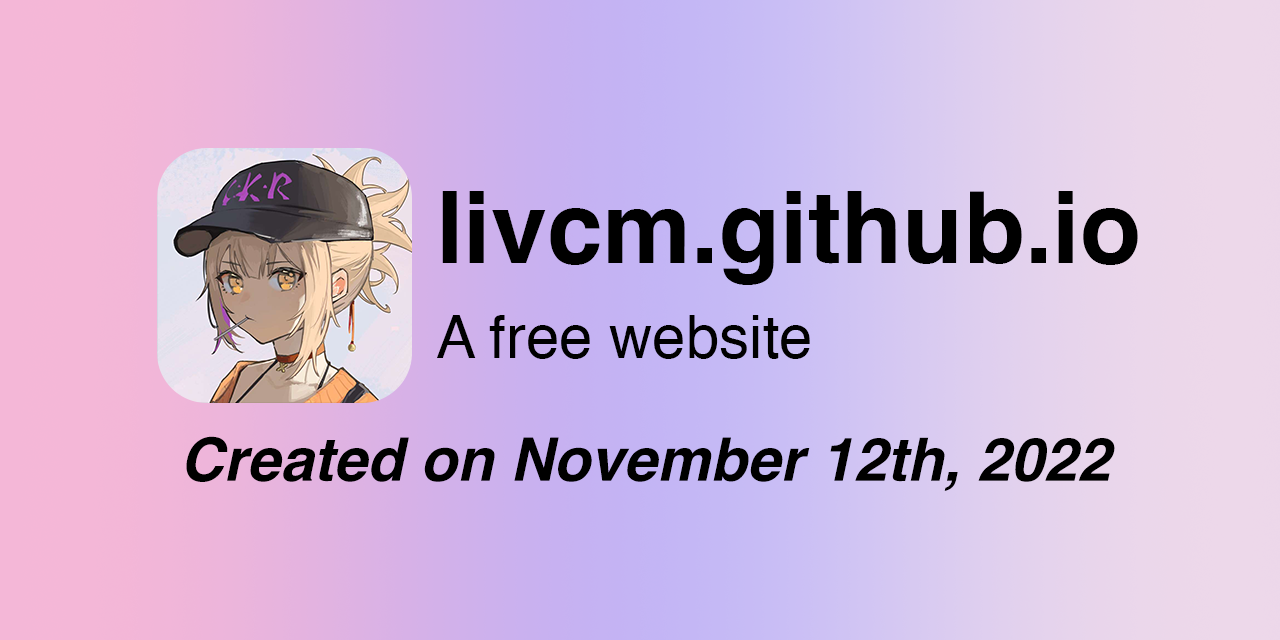
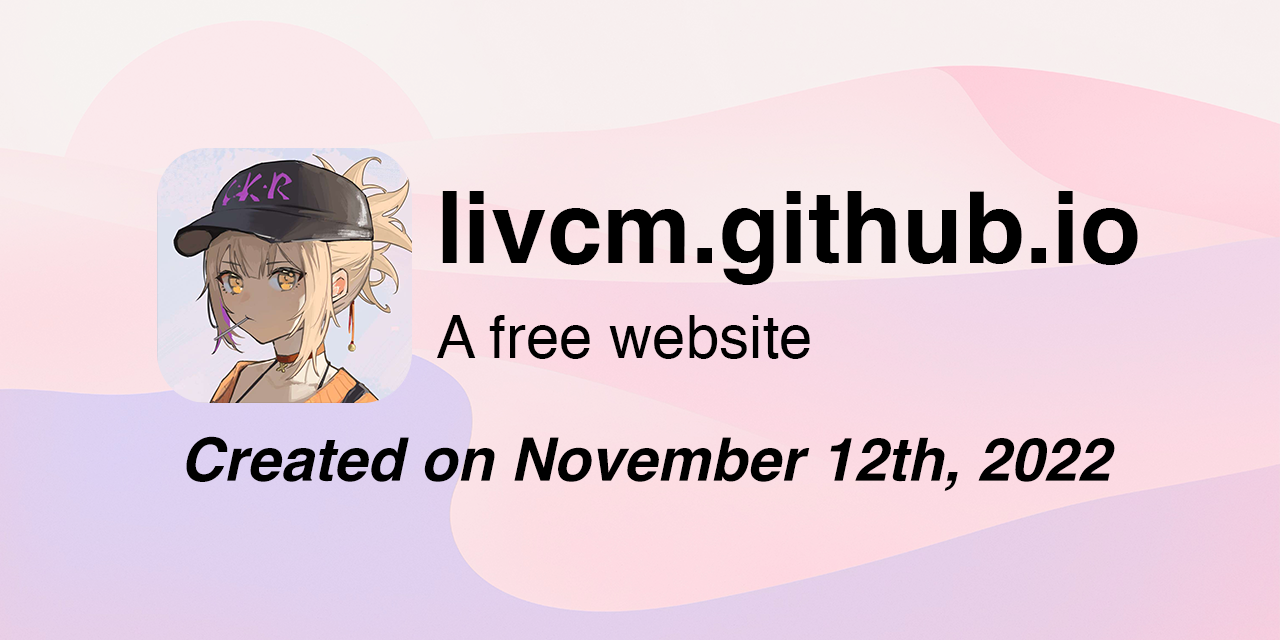
Update social preview and simplify post metadata

diff --git a/_posts/2026-10-04-markdown-syntax-guide.md b/_posts/2026-10-04-markdown-syntax-guide.md
@@ -1,0 +1,301 @@
+---
+title: "Markdown 语法入门：用纯文本写出清晰的文章"
+categories: [技术笔记]
+tags: [Markdown, 写作]
+date: 2026-10-04 00:00:00 +0800
+permalink: /2026/10/04/markdown-syntax-guide.html
+---
+
+写笔记、整理文档或发布博客时，我们经常需要标题、列表、链接和代码块。Markdown 用少量符号表达这些结构，让你在纯文本里完成排版：源文件容易阅读，渲染后也能呈现清晰的层次。
+
+这篇文章从最常用的语法讲起。你可以把示例复制到 Markdown 编辑器里，对照预览查看效果。Markdown 文件通常使用 `.md` 扩展名。
+
+## 1. 标题：用井号划分层次
+
+在一行开头写上 `#`，再加一个空格，就能创建标题。井号的数量对应标题级别，最多六级。
+
+```markdown
+# 一级标题
+## 二级标题
+### 三级标题
+#### 四级标题
+##### 五级标题
+###### 六级标题
+```
+
+一篇文档通常用一级标题表示主题，二级标题划分章节，三级标题细分内容。不要仅仅为了让字变小而跳过层级，标题首先表达的是文章结构。
+
+如果博客模板已经把文章标题显示为一级标题，正文从二级标题开始即可，这篇文章就是这样写的。
+
+## 2. 段落与换行：空一行很重要
+
+两个段落之间留一个空行：
+
+```markdown
+这是第一段，可以包含多个句子。
+
+这是第二段。
+```
+
+只按一次回车，通常仍然属于同一个段落，不一定产生可见的换行。有些平台会改变这一行为，因此要以实际预览为准。
+
+如果需要在同一段落中强制换行，可以在行末添加两个空格，再按回车。不过行末空格不容易察觉，也可能被编辑器自动清除；普通文章优先使用段落分隔，维护起来更方便。
+
+## 3. 强调：粗体与斜体
+
+用一对星号包围文字表示斜体，用两对星号表示粗体：
+
+```markdown
+这是 *斜体*。
+这是 **粗体**。
+这是 ***粗斜体***。
+```
+
+渲染效果：
+
+- 这是 *斜体*。
+- 这是 **粗体**。
+- 这是 ***粗斜体***。
+
+粗体适合标出关键概念或操作提示。如果整段文字都加粗，读者反而难以找到重点。
+
+## 4. 列表：整理要点和操作步骤
+
+### 无序列表
+
+在每项前面写 `-` 和一个空格：
+
+```markdown
+- 阅读文档
+- 整理笔记
+- 完成练习
+```
+
+`*` 和 `+` 也可以作为无序列表标记，同一份文档里保持一种写法即可。
+
+### 有序列表
+
+有先后顺序的内容，用数字、英文句点和空格表示：
+
+```markdown
+1. 新建一个 Markdown 文件。
+2. 写入标题和正文。
+3. 打开预览，检查效果。
+```
+
+### 嵌套列表
+
+将子列表缩进到父项的内容区域内。对于下面这样的短标记，使用四个空格很方便：
+
+```markdown
+- 写作计划
+    - 确定主题
+    - 收集资料
+- 发布准备
+    - 检查链接
+    - 校对文字
+```
+
+列表前后留空行，能够减少不同渲染器对结构的误判。
+
+## 5. 引用：突出一段文字
+
+在行首添加 `>` 和一个空格：
+
+```markdown
+> 把复杂的事情写清楚，往往需要先想清楚。
+>
+> 这是引用中的第二段。
+```
+
+渲染效果：
+
+> 把复杂的事情写清楚，往往需要先想清楚。
+>
+> 这是引用中的第二段。
+
+引用适合摘录他人的话，也可以用于补充说明。引用外部内容时，记得标明出处。
+
+## 6. 链接与图片：方括号加圆括号
+
+### 链接
+
+链接的基本格式是 `[显示文字](目标地址)`：
+
+```markdown
+[访问文章列表](/posts.html)
+[发送邮件](mailto:hello@example.com)
+```
+
+第一条示例会显示为 [访问文章列表](/posts.html)。描述性文字能够告诉读者链接的用途，比单独写“点这里”更清楚。
+
+以 `/` 开头的地址从网站根目录解析，相对路径则取决于当前文档或页面所在的位置。博客发布后的位置可能与源文件目录不同，发布前应检查链接。
+
+### 图片
+
+图片比链接多一个开头的感叹号：
+
+```markdown
+![傍晚的天空，云层被夕阳染成粉色](./images/sunset.jpg)
+```
+
+方括号里的内容是替代文本，用来描述图片。图片无法加载时，或者读者使用屏幕阅读器时，这段文字仍然能够传达信息。
+
+示例中的图片路径仅用于说明写法，使用时需要换成实际存在的文件或图片地址。
+
+## 7. 代码：保留符号和缩进
+
+### 行内代码
+
+用一对反引号包围命令、文件名或代码片段：
+
+```markdown
+运行 `npm install` 安装依赖。
+配置文件名是 `config.json`。
+```
+
+渲染后会显示为：运行 `npm install` 安装依赖。
+
+如果代码本身包含反引号，可以用两个反引号作为外层边界：
+
+```markdown
+用 `` `内容` `` 表示行内代码。
+```
+
+### 代码块
+
+多行代码可以用三个反引号围起来，在开头注明语言：
+
+````markdown
+```python
+def greet(name):
+    print(f"你好，{name}！")
+
+greet("Markdown")
+```
+````
+
+渲染效果：
+
+```python
+def greet(name):
+    print(f"你好，{name}！")
+
+greet("Markdown")
+```
+
+语言名称用于提示语法高亮，具体颜色和支持的语言取决于平台。代码块里的缩进会被保留，特别适合展示程序、命令和配置文件。
+
+如果要展示包含三个反引号的 Markdown 示例，外层可以使用四个反引号，上面的示例就是这样组织的。
+
+## 8. 分隔线与转义
+
+### 分隔线
+
+单独一行写三个或更多连字符，可以生成分隔线。前后留空行，避免它被解释为其他结构：
+
+```markdown
+上一部分的内容。
+
+---
+
+下一部分的内容。
+```
+
+分隔线适合区分内容片段。如果文章已有明确的章节标题，通常不需要频繁添加。
+
+### 转义字符
+
+如果想显示符号本身，可以在部分标点符号前加反斜杠，阻止它们被解释为 Markdown 标记：
+
+```markdown
+\*这句话不会变成斜体\*
+\# 这不是标题
+```
+
+渲染效果：
+
+\*这句话不会变成斜体\*
+
+\# 这不是标题
+
+对于整段语法示例，使用代码块比逐个转义更省事。
+
+## 9. 常见扩展：表格、删除线与任务列表
+
+Markdown 存在不同的语法变体。表格、删除线和任务列表在许多平台上可用，但并非所有渲染器都支持，使用时应查看目标平台的预览。
+
+### 表格
+
+用竖线分隔列，在表头下方添加分隔行：
+
+```markdown
+| 语法 | 用途 | 示例 |
+| --- | --- | --- |
+| 标题 | 划分章节 | `## 小节` |
+| 粗体 | 强调重点 | `**重点**` |
+| 行内代码 | 展示代码片段 | 使用反引号 |
+```
+
+渲染效果：
+
+| 语法 | 用途 | 示例 |
+| --- | --- | --- |
+| 标题 | 划分章节 | `## 小节` |
+| 粗体 | 强调重点 | `**重点**` |
+| 行内代码 | 展示代码片段 | 使用反引号 |
+
+在分隔行中加冒号可以指定对齐方式：`:---` 左对齐，`:---:` 居中，`---:` 右对齐。表格适合短内容对照，长段落放进表格后容易变得难读。
+
+### 删除线
+
+用两对波浪号包围文字：
+
+```markdown
+~~这是一条已经取消的安排。~~
+```
+
+支持这一扩展的平台会显示为：~~这是一条已经取消的安排。~~
+
+### 任务列表
+
+在无序列表标记后添加 `[ ]` 或 `[x]`，分别表示未完成和已完成：
+
+```markdown
+- [x] 确定文章主题
+- [x] 完成初稿
+- [ ] 校对并发布
+```
+
+支持任务列表的平台通常会把它们显示为复选框，但是否可以点击、点击后是否保存状态，取决于平台的实现。
+
+## 10. 一份可以直接套用的文档
+
+把前面的语法组合起来，就能写出一份结构完整的笔记：
+
+````markdown
+# 我的学习笔记
+
+今天学习了 **Markdown**，准备用它整理知识。
+
+## 学习目标
+
+- 掌握标题和列表。
+- 学会插入链接与代码。
+
+## 操作步骤
+
+1. 新建 `notes.md`。
+2. 写入内容。
+3. 检查预览。
+
+## 示例代码
+
+```python
+print("Hello, Markdown!")
+```
+
+> 写完以后，检查内容是否清楚、链接是否正确。
+````
+
+刚开始使用 Markdown，不必一次记住所有语法。先掌握标题、段落、列表、链接和代码，就足以完成大部分日常写作。遇到新的排版需求，再补充相应语法，并在最终发布的平台检查一次效果。

diff --git a/README.md b/README.md
@@ -1,9 +1,1 @@
-# Aneko 的奇想手记
-
-记一点日常，写一点奇想。喵～
-
-基于 Jekyll 与 GitHub Pages 的个人文章网站，使用自建的粉紫沙丘视觉语言，支持系统、浅色、深色主题。
-
-- [网站](https://livcm.github.io/)
-- [视觉语言规范](docs/visual-language.md)
-- [可视化样板](https://livcm.github.io/style-guide/)
+![Social Preview](/assets/imgs/social-preview.png)

diff --git a/_posts/2026-09-19-nonsense-report.md b/_posts/2026-09-19-nonsense-report.md
@@ -1,7 +1,7 @@
 ---
 title: "关于进一步做好相关工作的几点意见的补充说明的情况报告"
-categories: [随笔]
-tags: [废话文学, 公文写作, 高度重视]
+categories: 
+tags: 
 date: 2026-09-19 18:30:00 +0800
 permalink: /2026/09/19/nonsense-report.html
 ---
